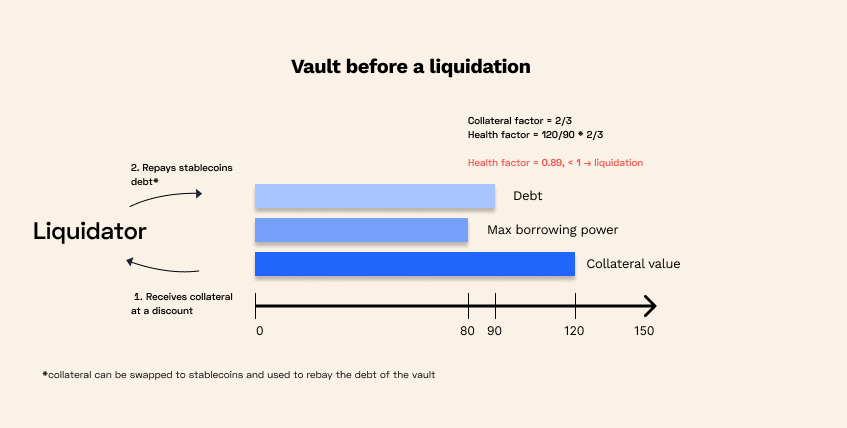
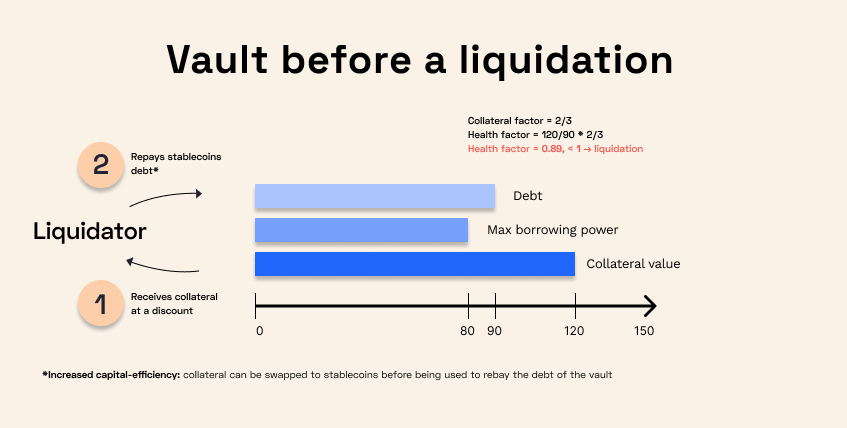
added illustrations + other fixes

diff --git a/new-module/vaults/README.md b/new-module/vaults/README.md
@@ -24,15 +24,23 @@ Once they have an open vault, users can borrow agTokens at a fee, repay their ag
 
 They also have to monitor their vaults' [health factor](../glossary.md). This metric keeps track of the "health" of the vault: it compares the collateral ratio of the vault with the minimum accepted. If the value of the collateral with respect to the agTokens borrowed decreases too much, the health factor will go below 1 and the vault can get [**liquidated**](/new-module/vaults/liquidations.md).
 
-At some point, users that don't need their agTokens anymore can pay bak their debt, to get back what they originally deposited as collateral.
+![Angle Vaults](../../.gitbook/assets/Vault.png)
+
+#### Capital-efficient debt repayment
+Another important feature  of Angle Vaults is that users can repay their debt in without any capital requirement. At some point, users should want to close their debt towards the protocol. Instead of having to get back the agTokens they initially borrowed, they can just use the collateral that is in the vault to have it swapped against their debt tokens. In this case, users would get back the remaining collateral after the debt has been fully paid back.
 
 Borrowing stablecoins is a very useful feature for users wanting to spend funds or profit from stablecoins yield, while keeping exposure to their original token.
 
-![Angle Vaults](../../.gitbook/assets/Vault.png)
+![Capital Efficient Debt Repayment](../../.gitbook/assets/Debt-repayment.png)
+
+
+
 
 ### Leveraging collateral exposure
 
-The second feature is an extension of the first one. It lets users borrow agTokens to **leverage their collateral exposure** in one transaction. When users deposit collateral to open a vault, they can choose the Leverage feature and input the amount of additional exposure they want to the collateral token, up to a certain threshold. Then, the protocol will mint agEUR, swap it against the desired collateral, deposit it back into the vault, and repeat until the correct amount has been deposited.
+The second feature is an extension of the first one. It lets users borrow agTokens to **leverage their collateral exposure** in one transaction. When users deposit collateral to open a vault, they can choose the Leverage feature and input the amount of additional exposure they want to the collateral token, up to a certain threshold. Then, the protocol will mint the necessary quantity of agToken, swap it against the desired collateral, and deposit it back into the vault.
+
+![Angle Leverage exposure](../../.gitbook/assets/Leverage.png)
 
 Similarly than in the above situation, if the value of the collateral decreases, the vault can get liquidated.
 
@@ -79,7 +87,7 @@ Thanks to the isolation of positions, one could become under a risk of liquidati
 
 In this case, users are able to perform a debt transfer, meaning that they will transfer part of their debt from one of their vault to another.
 
-This lowers the collateral ratio of the first vault, and increases that of the second. It allows users to rebalance their debt and collateral ratio between their different vaults.
+This increases the health ratio of the first vault, as it has less debt, and decreases that of the second. It allows users to rebalance their debt and collateral ratio between the different vaults they own.
 
 ### Dust Amount
 

diff --git a/new-module/vaults/liquidations.md b/new-module/vaults/liquidations.md
@@ -97,7 +97,9 @@ Where `f` is a piecewise linear increasing function of the veANGLE balance, capp
 
 ### No capital requirements
 
-As said above, a liquidator can liquidate a vault without bringing in any capital. They will receive the collateral at the beginning of the transaction, so they can swap it against the required amount of stablecoin to pay back the debt by the end of the transaction.
+As said above, a liquidator can liquidate a vault without bringing in any capital. They will receive the collateral at the beginning of the transaction, so they can swap it against the required amount of stablecoins to pay back the debt by the end of the transaction.
+
+This decreases **a lot** the barriers to entry for potential liquidators and makes it more competitive, which is better for borrowers. 
 
 ### Amount of debt to repay
 
